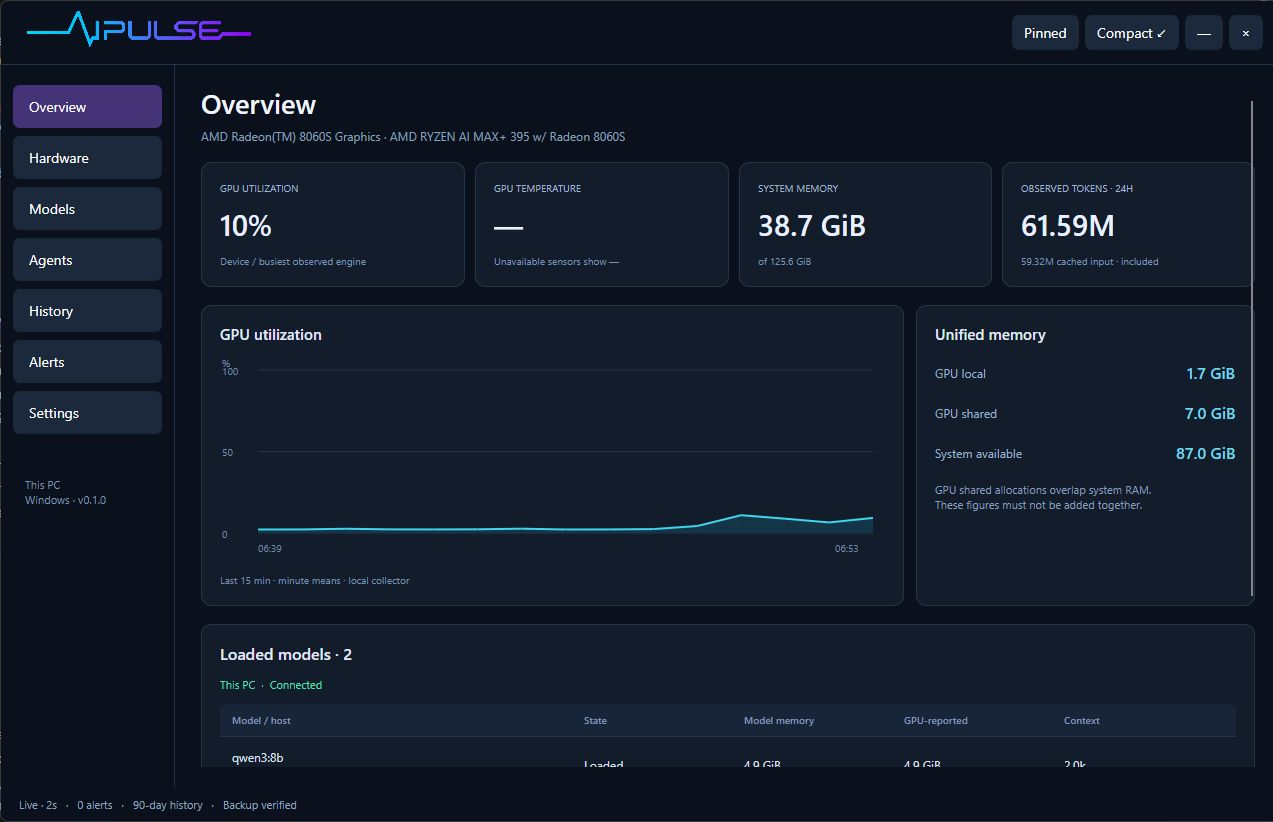
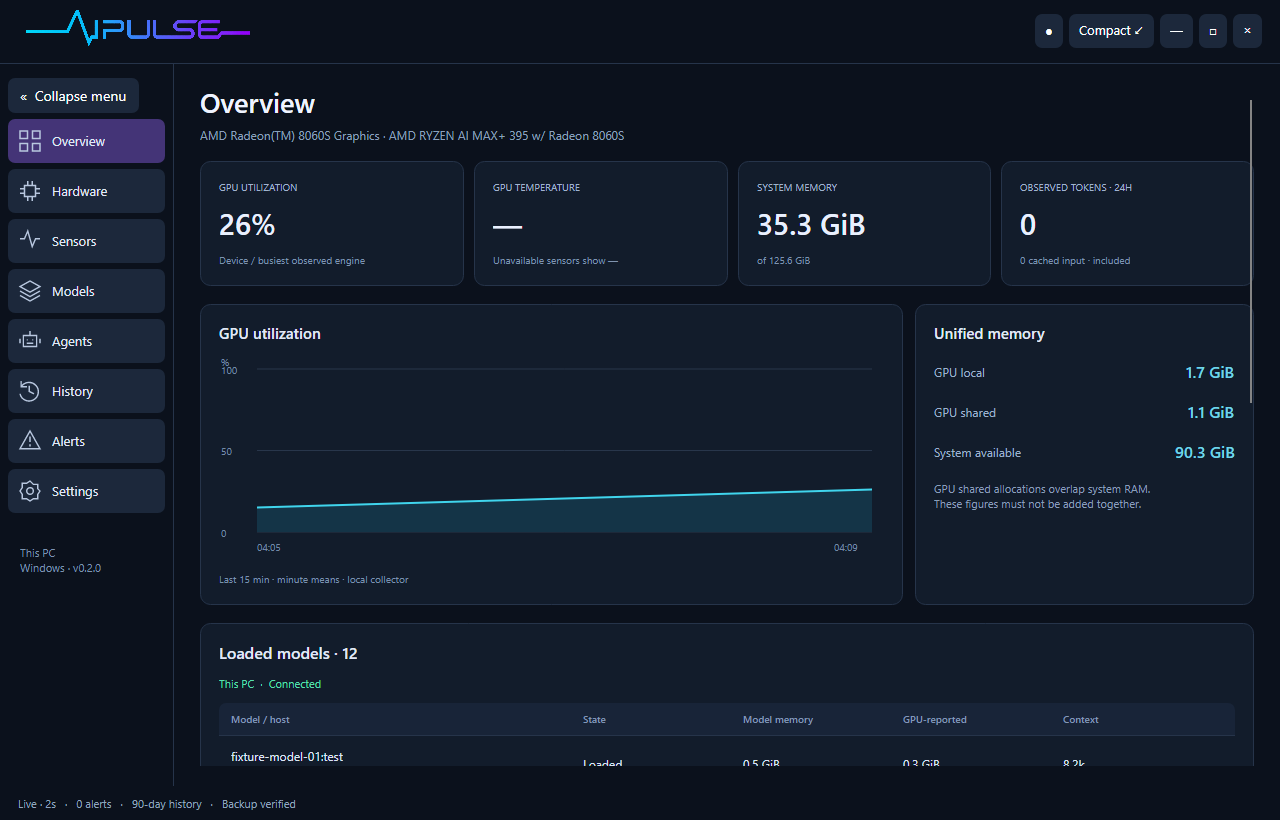
feat: add expanded maximize and restore on Windows and Ubuntu

diff --git a/src/AiPulse/MainWindow.cs b/src/AiPulse/MainWindow.cs
@@ -43,8 +43,10 @@ public sealed partial class MainWindow : Window
             if(!e.GetCurrentPoint(this).Properties.IsLeftButtonPressed)return;
             for(var v=e.Source as Visual;v!=null&&v!=this;v=v.GetVisualParent())
                 if(v is Button or TextBox or ComboBox or Slider or ScrollBar or NumericUpDown or ToggleSwitch or MenuItem)return;
+            if(!service.Settings.Compact&&e.ClickCount==2&&e.Source is Visual source&&source.GetVisualAncestors().Contains(header)){ToggleMaximize();e.Handled=true;return;}
             BeginMoveDrag(e);
         },RoutingStrategies.Bubble);
+        PropertyChanged+=(_,e)=>{if(e.Property==WindowStateProperty)BuildHeader();};
         Closing+=(_,e)=>{if(Application.Current is App a&&!a.Quitting){SavePosition();if(OperatingSystem.IsWindows()){e.Cancel=true;Hide();}else{a.Quitting=true;(a.ApplicationLifetime as Avalonia.Controls.ApplicationLifetimes.IClassicDesktopStyleApplicationLifetime)?.Shutdown();}}};
         Opened+=async(_,_)=>
         {
@@ -67,7 +69,8 @@ public sealed partial class MainWindow : Window
     void ApplyWindowLayout()
     {
         bool compact=service.Settings.Compact,vertical=service.Settings.CompactVertical;
-        MinWidth=compact?(vertical?240:560):850;MinHeight=compact?100:520;CanResize=!compact;
+        if(compact&&WindowState==WindowState.Maximized)WindowState=WindowState.Normal;
+        MinWidth=compact?(vertical?240:560):850;MinHeight=compact?100:520;CanResize=!compact;CanMaximize=!compact;
         shell.RowDefinitions=new RowDefinitions(compact?"34,*,0":"64,*,34");footer.IsVisible=!compact;
         Width=compact?(vertical?260:560):1280;
         Height=compact?CompactHeight():820;
@@ -85,10 +88,13 @@ public sealed partial class MainWindow : Window
         Action(Topmost?"●":"○",Topmost?"Unpin window":"Pin window on top",()=>{Topmost=!Topmost;service.Settings.Pinned=Topmost;Paths.Save(service.Settings);BuildHeader();});
         if(compact)Action(service.Settings.CompactVertical?"↔":"↕","Switch compact orientation",()=>{service.Settings.CompactVertical=!service.Settings.CompactVertical;Paths.Save(service.Settings);ApplyWindowLayout();RenderBody();KeepOnScreen();});
         Action(compact?"↗":"Compact ↙",compact?"Expand dashboard":"Show compact dashboard",ToggleMode);
-        Action("—","Minimize",()=>WindowState=WindowState.Minimized);Action("×","Close to tray",Close);
+        Action("—","Minimize",()=>WindowState=WindowState.Minimized);
+        if(!compact)Action(WindowState==WindowState.Maximized?"❐":"□",WindowState==WindowState.Maximized?"Restore window":"Maximize window",ToggleMaximize);
+        Action("×",OperatingSystem.IsWindows()?"Close to tray":"Close window",Close);
         Grid.SetColumn(controls,1);title.Children.Add(controls);
         header.Content=new Border{Child=title,Padding=compact?new Thickness(8,3):new Thickness(18,10),BorderBrush=Line,BorderThickness=new Thickness(0,0,0,1)};
     }
+    void ToggleMaximize(){if(!service.Settings.Compact)WindowState=WindowState==WindowState.Maximized?WindowState.Normal:WindowState.Maximized;}
     public void ToggleMode(){SavePosition();service.Settings.Compact=!service.Settings.Compact;Paths.Save(service.Settings);ApplyWindowLayout();RenderBody();KeepOnScreen();}
     void Refresh()
     {

diff --git a/src/AiPulse/UiChecks.cs b/src/AiPulse/UiChecks.cs
@@ -33,6 +33,10 @@ public sealed partial class MainWindow
             await Click("Toggle loaded models");Check(!modelsExpanded&&Height==132,"Closing loaded-model dropdown restores compact height");
             await Click("Switch compact orientation");Check(service.Settings.CompactVertical&&Width==260&&Height==300,"Vertical compact layout changes width and height");await Shot("compact-vertical");
             await Click("Expand dashboard");Check(!service.Settings.Compact&&header.Bounds.Height==64,"Expanded dashboard restores full-size branding");
+            await Click("Maximize window");Check(WindowState==WindowState.Maximized&&ButtonNamed("Restore window")!=null,"Expanded window maximizes and exposes Restore");
+            await Click("Restore window");Check(WindowState==WindowState.Normal&&ButtonNamed("Maximize window")!=null,"Restore returns to a normal resizable window");
+            await Click("Maximize window");await Click("Show compact dashboard");Check(service.Settings.Compact&&WindowState==WindowState.Normal&&!CanMaximize,"Compact mode leaves maximization and remains a small widget");
+            await Click("Expand dashboard");
             await Shot("overview-expanded");
             await Click("Collapse menu");Check(service.Settings.SidebarCollapsed&&ButtonNamed("Expand menu")!=null,"Sidebar collapses to named icon buttons");await Shot("sidebar-collapsed");
             await Click("Hardware");var search=this.GetVisualDescendants().OfType<TextBox>().Single();search.Focus();search.Text="not-a-real-sensor-xyz";await Task.Delay(150);Refresh();await Task.Delay(150);

diff --git a/docs/USER-GUIDE.md b/docs/USER-GUIDE.md
@@ -22,6 +22,8 @@ Drag any non-interactive part of the window—including metric labels, readings,
 
 **↗** or **Ctrl+D** opens the full dashboard and restores the larger ECG wordmark. **Compact ↙** returns to the widget. On Windows, close hides to the tray while collection continues; Linux close exits. **Ctrl+Q**, Settings **Quit AI Pulse**, or tray **Quit AI Pulse** stops collection.
 
+Expanded mode includes standard **Minimize, Maximize/Restore and Close** controls on both Windows and Ubuntu. Double-click the non-interactive header to maximize or restore. Returning to compact mode leaves maximization and restores the small widget dimensions. Ubuntu window placement is managed by your desktop/compositor.
+
 The sidebar has **Collapse menu / Expand menu** controls. Collapsed mode shows recognizable icons with tooltips and accessible names; expanded mode restores text labels.
 
 ![Collapsed sidebar](images/sidebar-collapsed.png)
